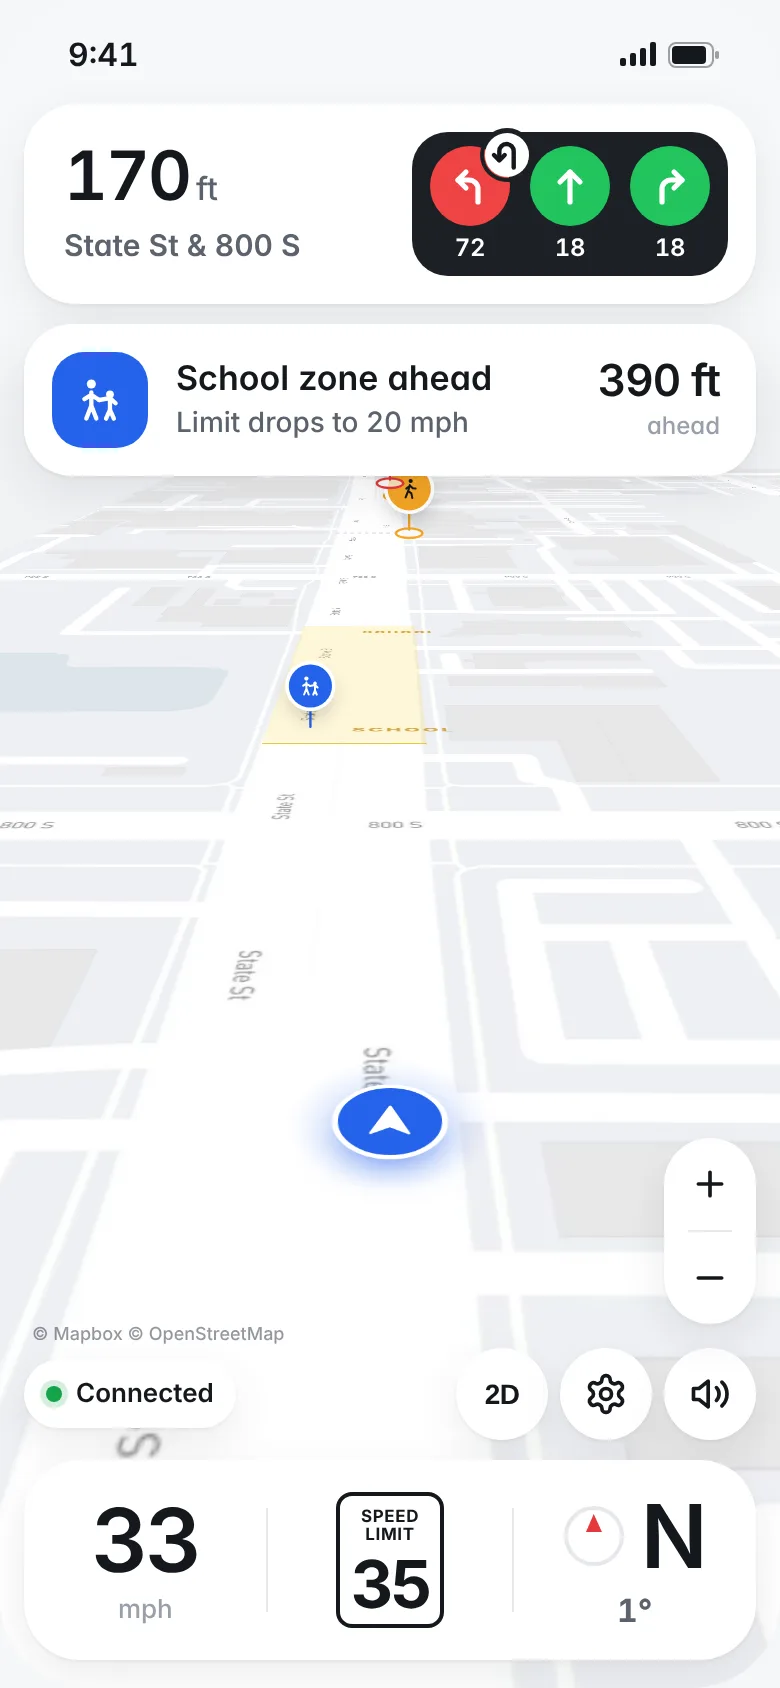
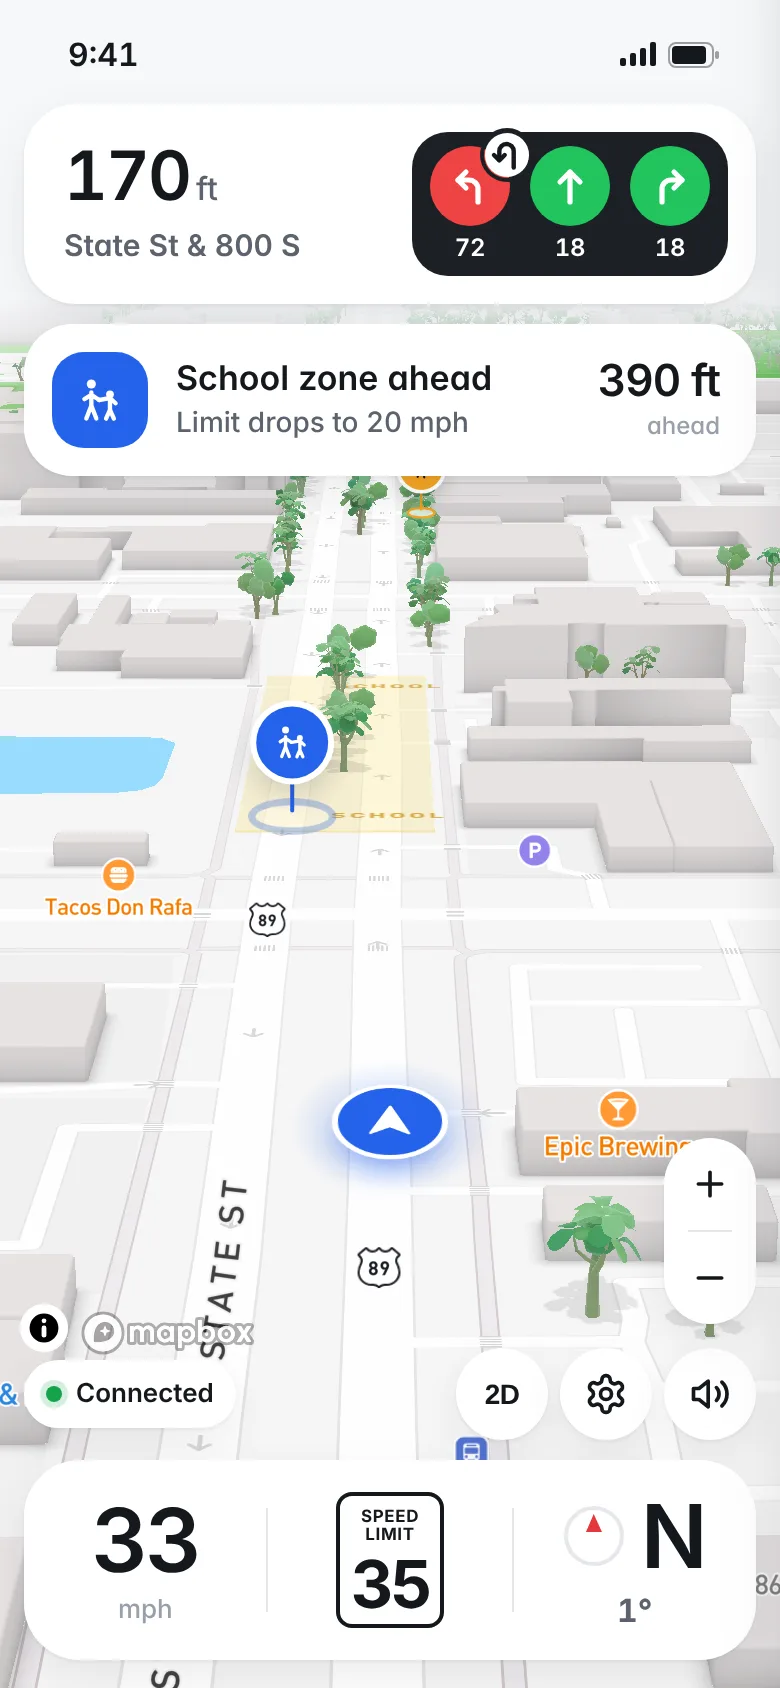
v49b: Display Modes live Mapbox pictures

diff --git a/cluster/index.html b/cluster/index.html
@@ -184,7 +184,7 @@
     <li><b style="display:inline">Another app in front:</b> only a notification + voice (<a href="https://developer.apple.com/carplay/documentation/CarPlay-App-Programming-Guide.pdf#page=29" target="_blank" rel="noopener">p. 28</a>); iOS 26 Live Activities in CarPlay Dashboard (<a href="https://developer.apple.com/carplay/documentation/CarPlay-App-Programming-Guide.pdf#page=12" target="_blank" rel="noopener">p. 11</a>).</li>
   </ul></div>
 </aside>
-<script src="_dc.js?v=9e02dff-1794816173"></script>
+<script src="_dc.js?v=ae2e441-1794817129"></script>
 <script>
 // Which app: /cluster/ (demo) or ?cluster (local) = the no-map cluster; else the map app.
 const q = new URLSearchParams(location.search);
@@ -243,7 +243,7 @@ if (app) {
 }
 (async () => {
   try {
-    const Root = await DC.load(cluster ? 'Cluster.dc.html?v=9e02dff-1794816173' : 'LiveDrive.dc.html?v=9e02dff-1794816173');
+    const Root = await DC.load(cluster ? 'Cluster.dc.html?v=ae2e441-1794817129' : 'LiveDrive.dc.html?v=ae2e441-1794817129');
     ReactDOM.createRoot(document.getElementById('root')).render(DC.h(Root, { ...(app ? { app: '1' } : {}), ...(device !== 'phone' ? { device } : {}) }));
   } catch (e) { document.getElementById('root').innerHTML = '<pre style="padding:16px;color:#B91C1C">Could not load the app: ' + e.message + '</pre>'; }
 })();

diff --git a/index.html b/index.html
@@ -184,7 +184,7 @@
     <li><b style="display:inline">Another app in front:</b> only a notification + voice (<a href="https://developer.apple.com/carplay/documentation/CarPlay-App-Programming-Guide.pdf#page=29" target="_blank" rel="noopener">p. 28</a>); iOS 26 Live Activities in CarPlay Dashboard (<a href="https://developer.apple.com/carplay/documentation/CarPlay-App-Programming-Guide.pdf#page=12" target="_blank" rel="noopener">p. 11</a>).</li>
   </ul></div>
 </aside>
-<script src="_dc.js?v=9e02dff-1794816173"></script>
+<script src="_dc.js?v=ae2e441-1794817129"></script>
 <script>
 // Which app: /cluster/ (demo) or ?cluster (local) = the no-map cluster; else the map app.
 const q = new URLSearchParams(location.search);
@@ -243,7 +243,7 @@ if (app) {
 }
 (async () => {
   try {
-    const Root = await DC.load(cluster ? 'Cluster.dc.html?v=9e02dff-1794816173' : 'LiveDrive.dc.html?v=9e02dff-1794816173');
+    const Root = await DC.load(cluster ? 'Cluster.dc.html?v=ae2e441-1794817129' : 'LiveDrive.dc.html?v=ae2e441-1794817129');
     ReactDOM.createRoot(document.getElementById('root')).render(DC.h(Root, { ...(app ? { app: '1' } : {}), ...(device !== 'phone' ? { device } : {}) }));
   } catch (e) { document.getElementById('root').innerHTML = '<pre style="padding:16px;color:#B91C1C">Could not load the app: ' + e.message + '</pre>'; }
 })();

diff --git a/app/Cluster.dc.html b/app/Cluster.dc.html
@@ -4,9 +4,9 @@
 <meta charset="utf-8">
 <title>Road Sense — cluster</title>
 <script src="./support.js"></script>
-<link rel="stylesheet" href="rs2.css?v=9e02dff-1794816173">
-<link rel="stylesheet" href="dash.css?v=9e02dff-1794816173">
-<link rel="stylesheet" href="cluster.css?v=9e02dff-1794816173">
+<link rel="stylesheet" href="rs2.css?v=ae2e441-1794817129">
+<link rel="stylesheet" href="dash.css?v=ae2e441-1794817129">
+<link rel="stylesheet" href="cluster.css?v=ae2e441-1794817129">
 </head>
 <body>
 <x-dc>

diff --git a/app/LiveDrive.dc.html b/app/LiveDrive.dc.html
@@ -4,7 +4,7 @@
 <meta charset="utf-8">
 <title>Road Sense — live drive</title>
 <script src="./support.js"></script>
-<link rel="stylesheet" href="rs2.css?v=9e02dff-1794816173">
+<link rel="stylesheet" href="rs2.css?v=ae2e441-1794817129">
 </head>
 <body>
 <x-dc>
